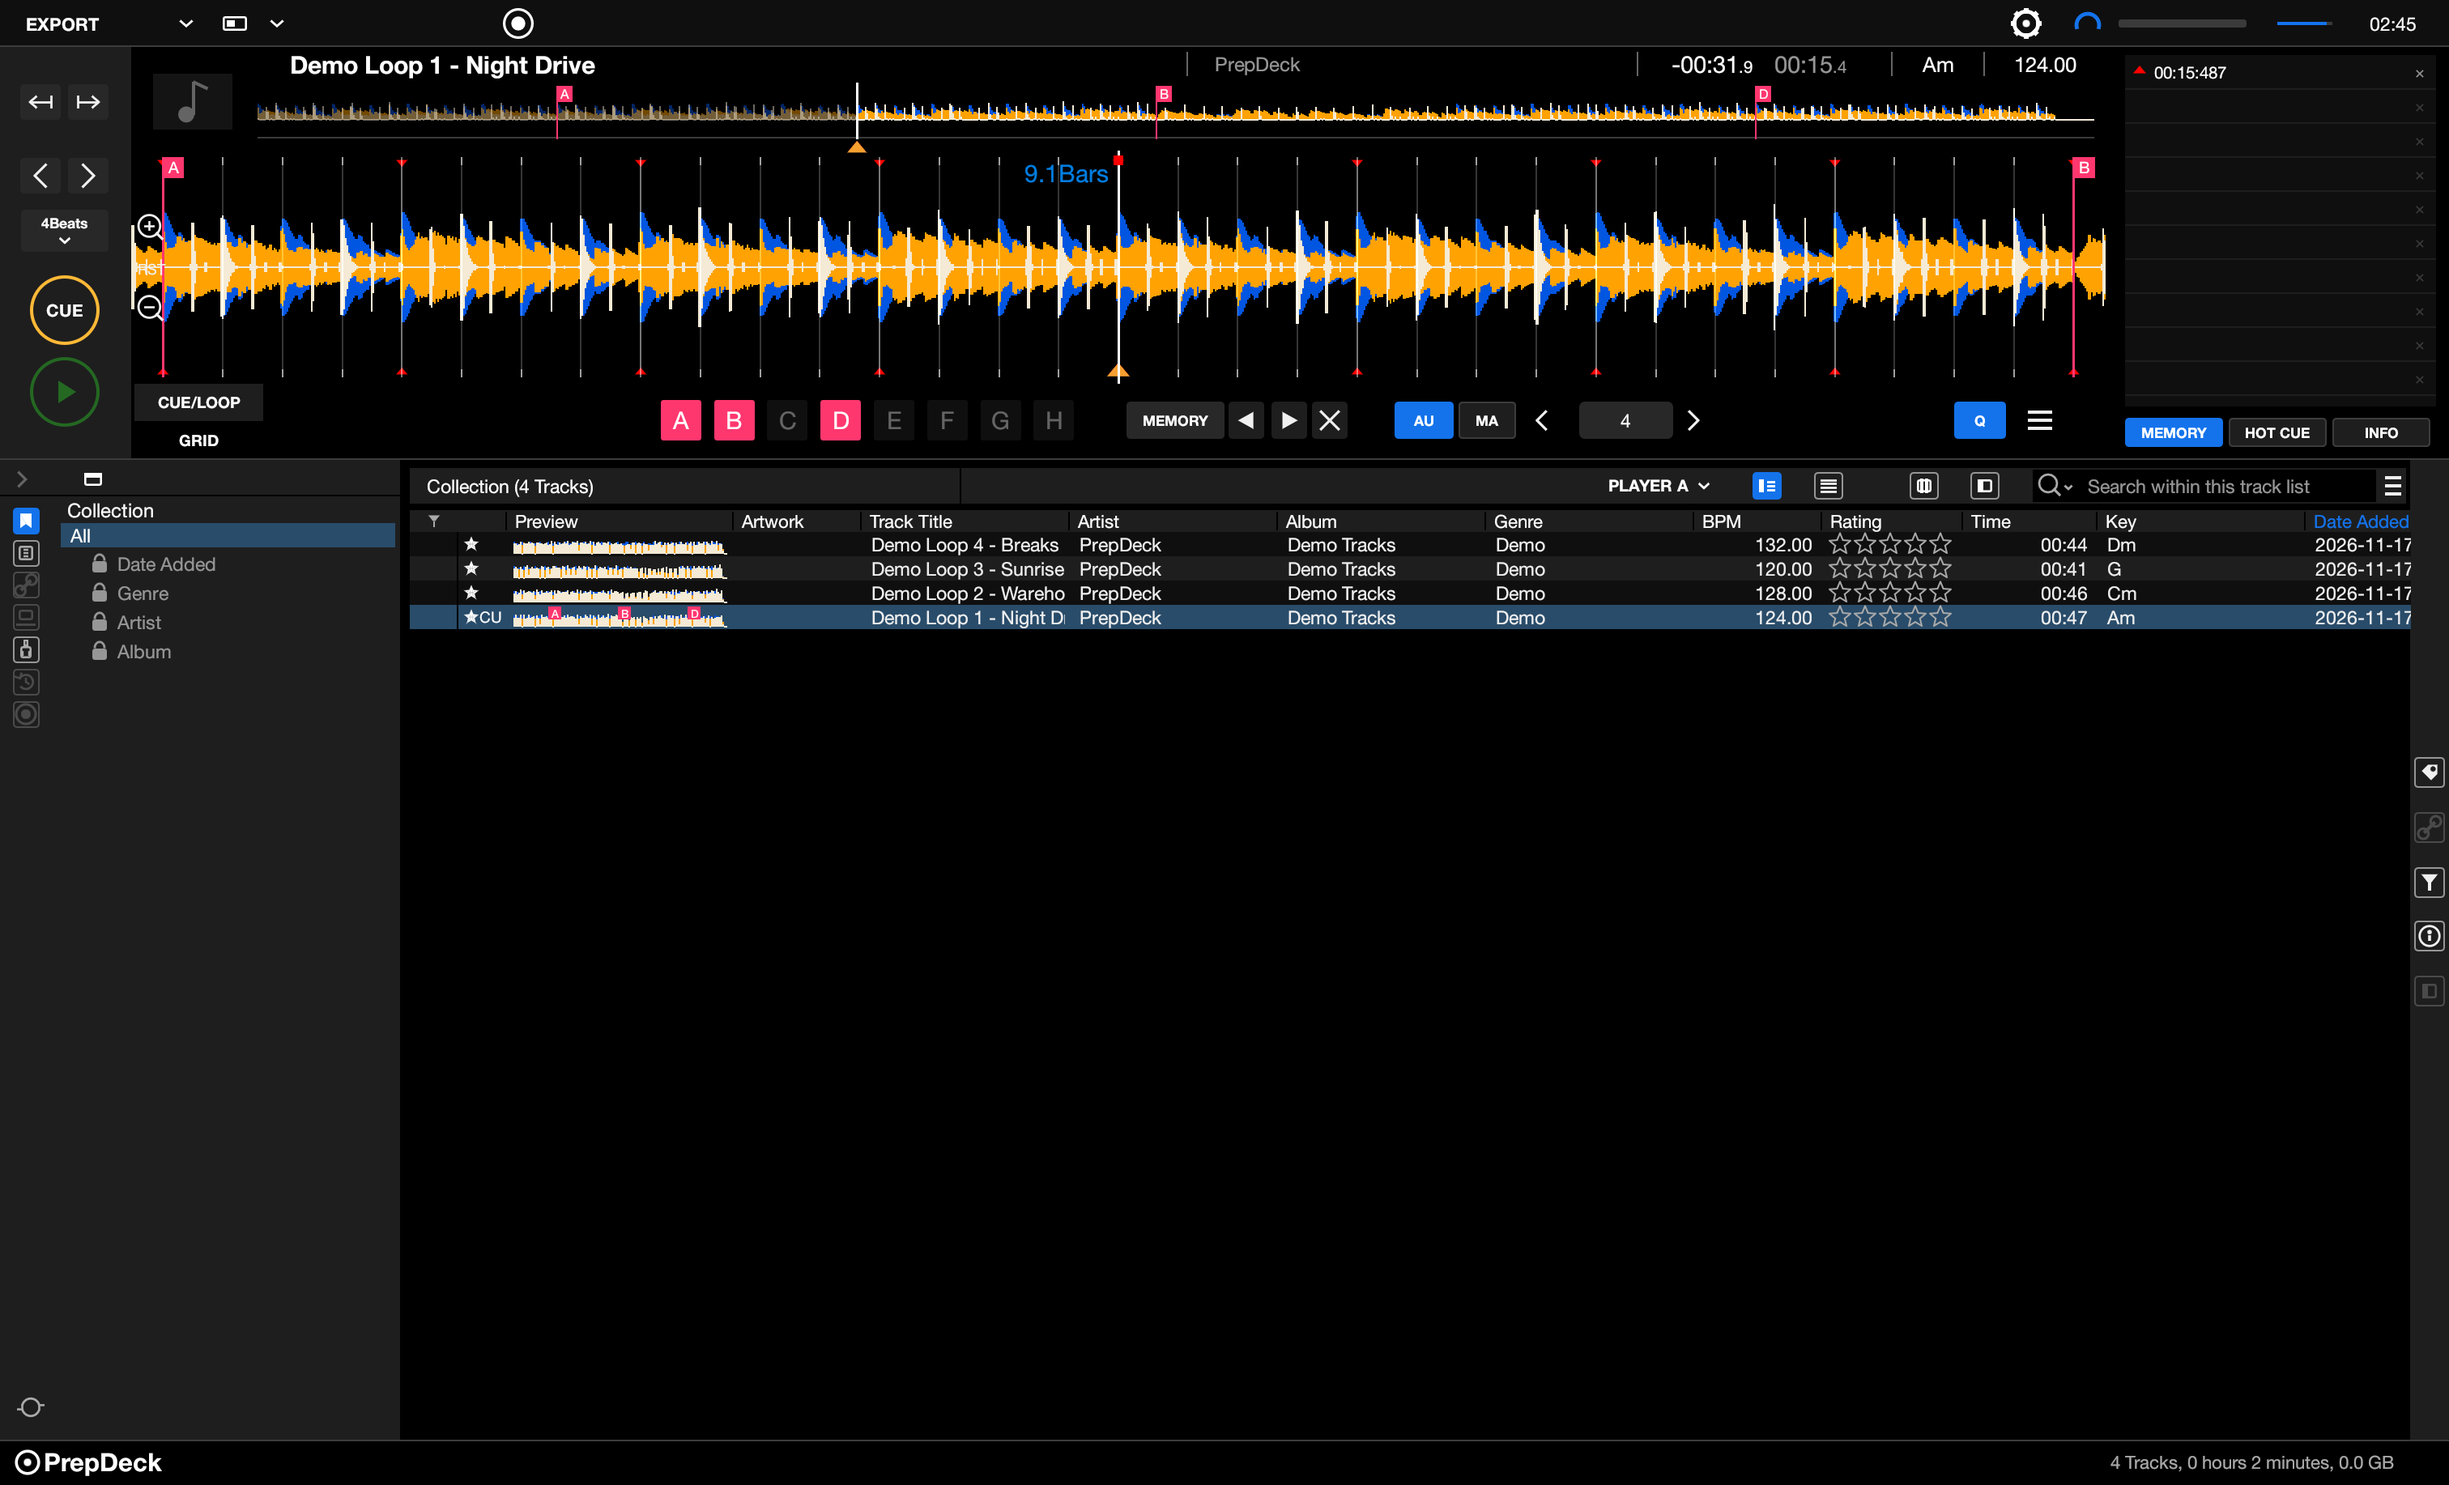
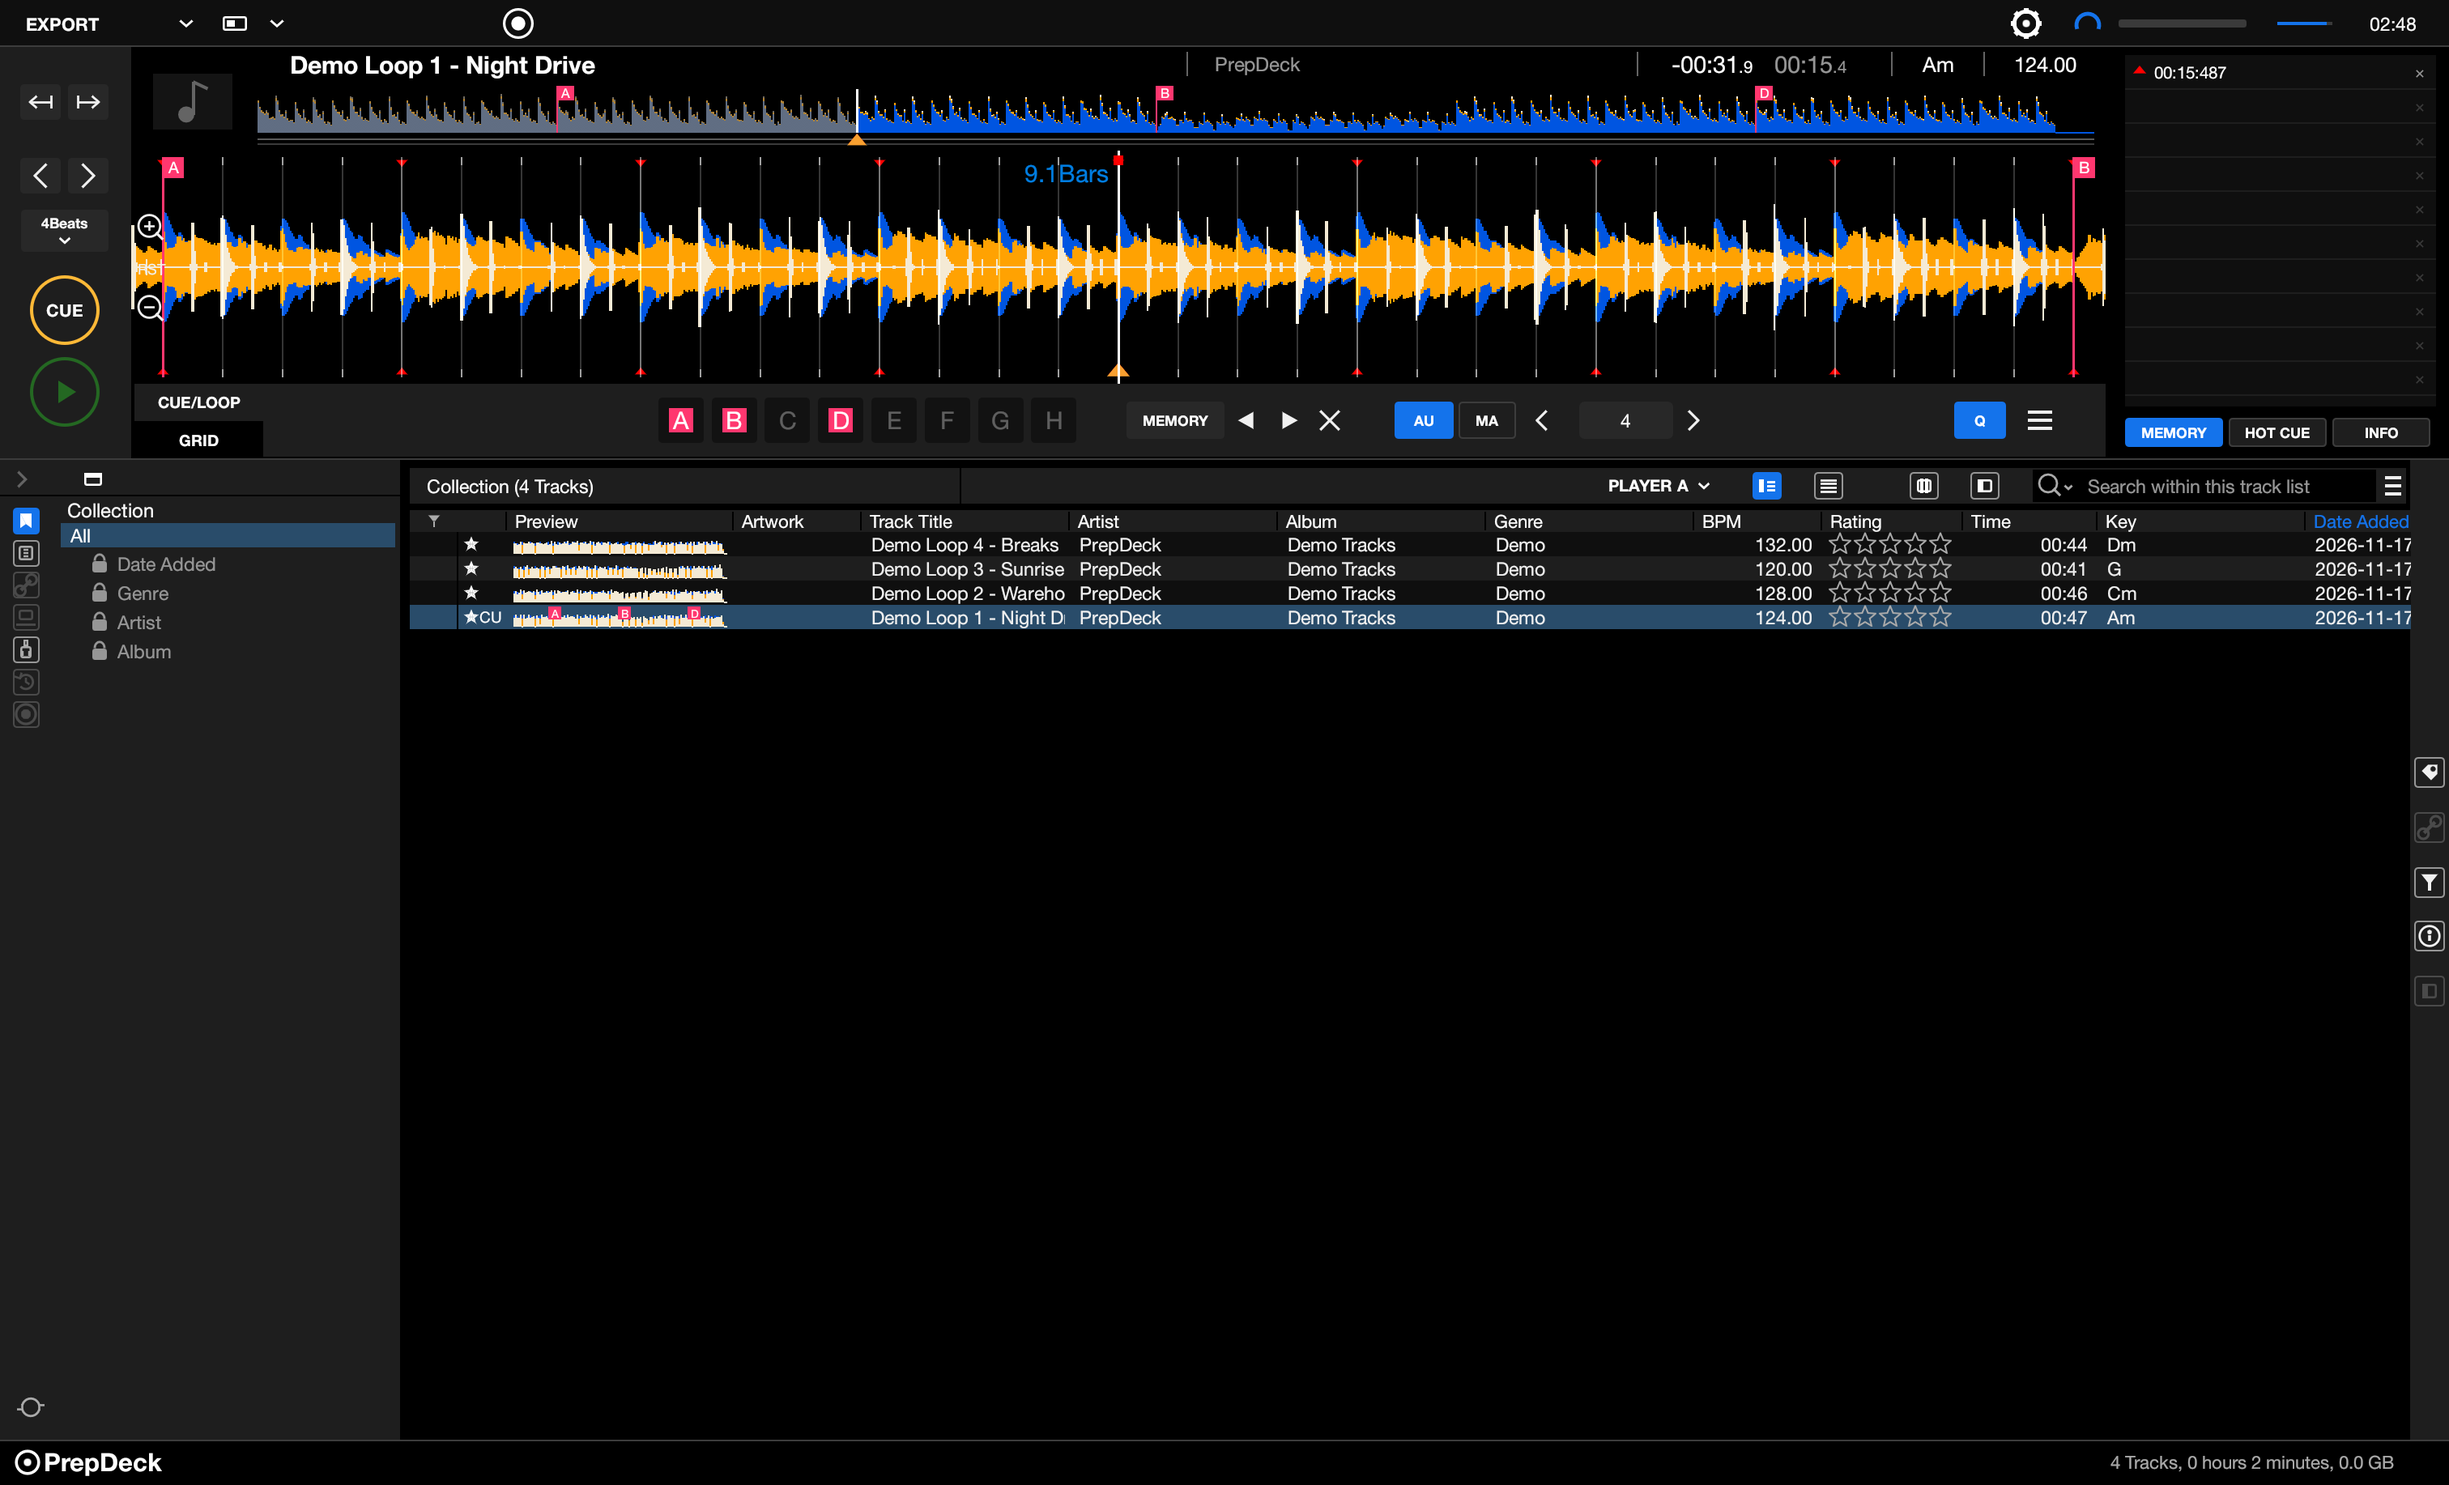
Sync build progress (3 file(s) changed)

Changed region(s): [[0.0933, 0.2486, 0.8704, 0.3108], [0.0933, 0.0622, 0.8393, 0.1243]]

diff --git a/app/src/ui_player.rs b/app/src/ui_player.rs
@@ -250,31 +250,48 @@ pub fn wave_bars(mode: u8, v: [u8; 4]) -> Vec<(f32, Color32)> {
 fn draw_overview(app: &mut App, ui: &mut Ui, r: Rect, pos: f64) {
     let p = ui.painter().clone();
     let dur = app.deck.duration.max(0.001);
-    let mid = r.center().y + 2.0;
-    let half = r.height() / 2.0 - 2.0;
+    // Measured from the original: baseline 29 pt below the top, bars up to 24 pt tall,
+    // a double progress rule at +33/+36 pt and minute ticks under it.
+    let base = r.min.y + 29.0;
+    let full_h = 24.0;
     if let Some(w) = &app.deck.wave {
         let n = r.width().max(1.0) as usize;
         let cols = w.columns(n);
+        // the overview fills its height at the track's loudest column
+        let top = cols.iter().map(|c| { let d = Waveform::disp(c); d[0].max(d[1]) }).max().unwrap_or(255).max(1) as f32;
+        let norm = (255.0 / top).min(4.0);
         for (i, c) in cols.iter().enumerate() {
             let x = r.min.x + i as f32 + 0.5;
             let played = (i as f64 / n as f64) * dur < pos;
-            for (h, col) in wave_bars(app.prefs.wave_color, Waveform::disp(c)) {
+            let mut d = Waveform::disp(c);
+            for v in d.iter_mut() {
+                *v = (*v as f32 * norm).min(255.0) as u8;
+            }
+            let layers: Vec<(f32, Color32)> = if app.prefs.wave_color >= 2 {
+                // 3Band overview: a blue body with thin orange and white edges above it
+                let t = (d[0] as f32 / 255.0).max(d[1] as f32 / 255.0);
+                let hi = (d[3] as f32 / (d[0] as f32 + 1.0)).min(1.0);
+                vec![(t * (0.94 + 0.06 * hi), WAVE_HIGH), (t * 0.94, WAVE_MID), (t * 0.86, WAVE_LOW)]
+            } else {
+                wave_bars(app.prefs.wave_color, d)
+            };
+            for (h, col) in layers {
                 let col = if played { col.gamma_multiply(0.45) } else { col };
-                // overview is drawn from the baseline upwards like the original
-                p.line_segment([pos2(x, mid + half * 0.15), pos2(x, mid + half * 0.15 - h * half * 1.15)], Stroke::new(1.0, col));
+                p.line_segment([pos2(x, base), pos2(x, base - h.min(1.0) * full_h)], Stroke::new(1.0, col));
             }
         }
     } else if app.deck.track.is_some() {
         p.text(r.center(), Align2::CENTER_CENTER, "Analyzing…", FontId::proportional(11.0), DIM);
     }
-    // time scale ticks
-    p.line_segment([pos2(r.min.x, r.max.y - 1.0), pos2(r.max.x, r.max.y - 1.0)], Stroke::new(1.0, hex(0x3A3A3A)));
+    // progress rule and minute ticks
+    p.line_segment([pos2(r.min.x, r.min.y + 33.0), pos2(r.max.x, r.min.y + 33.0)], Stroke::new(1.0, hex(0x5A5A5A)));
+    p.line_segment([pos2(r.min.x, r.min.y + 36.0), pos2(r.max.x, r.min.y + 36.0)], Stroke::new(1.0, hex(0x3A3A3A)));
     if app.deck.track.is_some() {
         let minute = 60.0 / dur * r.width() as f64;
         let mut k = 1.0;
         while k * minute < r.width() as f64 {
             let x = r.min.x + (k * minute) as f32;
-            p.line_segment([pos2(x, r.max.y - 3.0), pos2(x, r.max.y)], Stroke::new(1.0, DIM));
+            p.line_segment([pos2(x, r.min.y + 37.0), pos2(x, r.min.y + 39.0)], Stroke::new(1.0, DIM2));
             k += 1.0;
         }
         let x_of = |t: f64| r.min.x + (t / dur) as f32 * r.width();
@@ -289,20 +306,20 @@ fn draw_overview(app: &mut App, ui: &mut Ui, r: Rect, pos: f64) {
             let x = x_of(c.start);
             if c.kind == CueKind::Memory {
                 let col = if c.color > 0 { label_color(c.color) } else { BAR_RED };
-                tri_up(&p, pos2(x, r.max.y + 1.0), 5.0, col);
+                tri_up(&p, pos2(x, base + 0.5), 5.0, col);
             } else {
                 let col = hotcue_color(c.color);
-                let lr = Rect::from_min_size(pos2(x - 0.5, r.min.y), vec2(10.0, 10.0));
+                let lr = Rect::from_min_size(pos2(x - 0.5, r.min.y), vec2(11.0, 9.0));
                 p.rect_filled(lr, 0.0, col);
                 p.text(lr.center(), Align2::CENTER_CENTER, ((b'A' + c.slot as u8) as char).to_string(), FontId::proportional(8.0), WHITE);
-                p.line_segment([pos2(x, r.min.y), pos2(x, r.max.y)], Stroke::new(1.0, col));
+                p.line_segment([pos2(x, r.min.y), pos2(x, base)], Stroke::new(1.0, col));
             }
         }
         // cue point
-        tri_up(&p, pos2(x_of(app.deck.cue_point), r.max.y + 1.0), 6.0, CUE_MARK);
+        tri_up(&p, pos2(x_of(app.deck.cue_point), base + 0.5), 6.0, CUE_MARK);
         // playhead
         let px = x_of(pos);
-        p.line_segment([pos2(px, r.min.y - 2.0), pos2(px, r.max.y)], Stroke::new(1.5, WHITE));
+        p.line_segment([pos2(px, r.min.y + 2.0), pos2(px, base)], Stroke::new(1.5, WHITE));
     }
     let resp = ui.interact(r.expand2(vec2(0.0, 4.0)), ui.id().with("overview"), Sense::click_and_drag());
     if (resp.clicked() || resp.dragged()) && app.deck.audio.is_some() {
@@ -468,6 +485,8 @@ fn draw_detail(app: &mut App, ui: &mut Ui, r: Rect, pos: f64) {
 
 fn control_strip(app: &mut App, ui: &mut Ui, s: Rect, main: Rect) {
     let p = ui.painter().clone();
+    // The strip behind the pads is dark grey in the original, the pads darker still.
+    p.rect_filled(Rect::from_min_max(pos2(s.min.x + 81.5, s.min.y), pos2(main.max.x, s.max.y - 2.0)), 0.0, BG2);
     // Tabs CUE/LOOP and GRID (stacked, as measured: x 83..162.5).
     let tab1 = Rect::from_min_max(pos2(s.min.x + 2.0, s.min.y), pos2(s.min.x + 81.5, s.min.y + 23.0));
     let tab2 = Rect::from_min_max(pos2(s.min.x + 2.0, s.min.y + 23.0), pos2(s.min.x + 81.5, s.max.y));
@@ -481,18 +500,22 @@ fn control_strip(app: &mut App, ui: &mut Ui, s: Rect, main: Rect) {
     let x0 = sx(main, 407.9);
     let at = |x: f32, w: f32| Rect::from_center_size(pos2(sx(main, x), y), vec2(w, 23.0));
     if app.deck.ctrl_tab == 0 {
-        // hot cue pads, 25 pt squares on a 32.9 pt pitch starting at x = 420.4
+        // hot cue pads: 28 pt dark squares on a 32.9 pt pitch starting at x = 420.4;
+        // a set cue shows as a 15 pt square of its colour behind the letter.
         let mut x = x0;
         for slot in 0..8 {
-            let r = Rect::from_center_size(pos2(sx(main, 420.4 + slot as f32 * 32.9), y), vec2(25.0, 25.0));
+            let r = Rect::from_center_size(pos2(sx(main, 420.4 + slot as f32 * 32.9), y), vec2(28.0, 28.0));
             let _ = x;
             let cue = app.deck.cues.iter().find(|c| c.kind == CueKind::Hot && c.slot == slot).cloned();
-            let (fill, tc) = match &cue {
-                Some(c) => (hotcue_color(c.color), WHITE),
-                None => (BG1, OFF),
-            };
             let resp = ui.interact(r, ui.id().with(("pad", slot)), Sense::click_and_drag());
-            p.rect_filled(r, 1.0, if resp.hovered() && cue.is_none() { hex(0x1A1A1A) } else { fill });
+            p.rect_filled(r, 2.0, if resp.hovered() { hex(0x1A1A1A) } else { hex(0x121212) });
+            let tc = match &cue {
+                Some(c) => {
+                    p.rect_filled(Rect::from_center_size(r.center(), vec2(15.0, 15.0)), 0.0, hotcue_color(c.color));
+                    WHITE
+                }
+                None => hex(0x5F5F5F),
+            };
             p.text(r.center(), Align2::CENTER_CENTER, ((b'A' + slot as u8) as char).to_string(), FontId::proportional(15.0), tc);
             if resp.is_pointer_button_down_on() && ui.input(|i| i.pointer.primary_pressed()) {
                 if ui.input(|i| i.modifiers.shift) {

diff --git a/README.md b/README.md
@@ -6,9 +6,9 @@ An unofficial, open-source macOS app for getting ready for a DJ set: organise yo
 
 ## Status
 
-**Building**
+**A first version is ready to try**
 
-So far: 27 source files, 12,084 lines of Rust.
+So far: 27 source files, 12,107 lines of Rust.
 
 This is being built in the open. An AI coding agent (Claude Code, run through Craft Anything) is writing the code, and this repo syncs from its build folder about every 15 minutes, so you're watching it come together in real time. Expect gaps and the occasional broken build until a first release. Star or watch the repo to follow along.
 
